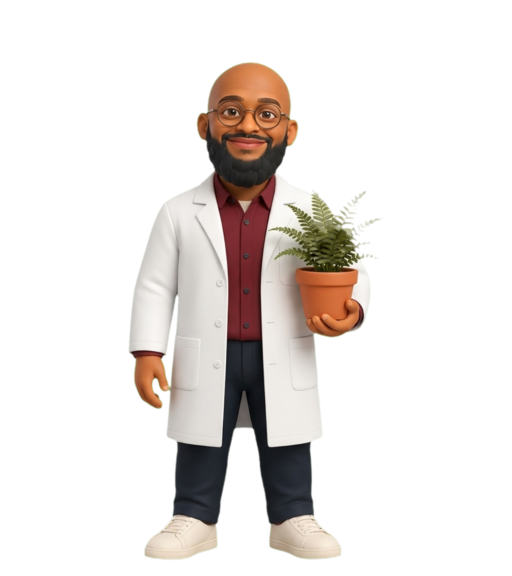
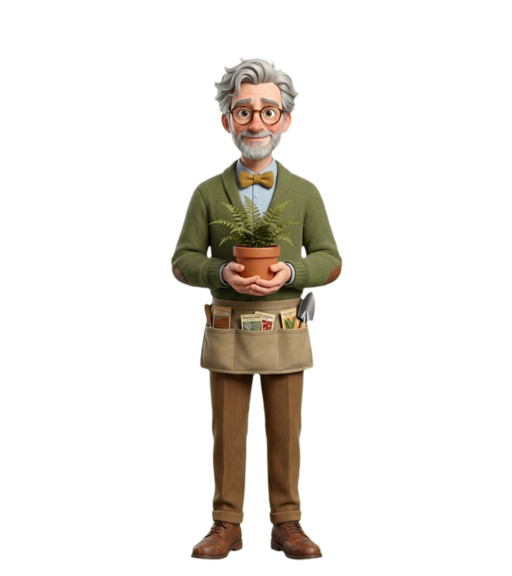
Give Wren and Elias their own looks
New figure art and matching cockpit hands, so all four characters look distinct.
Wren's starting item is now her bandana.

Changed region(s): [[0.25, 0.0938, 0.75, 1.0]]

diff --git a/story.js b/story.js
@@ -32,7 +32,7 @@ const BIOS = {
     line: 'I know these trails better than anyone. Let’s go. Now!',
     place: 'The river camp', scene: 'river', title: 'Grab your gear.',
     text: 'The river is loud tonight. Not loud enough to cover the footsteps in the trees.',
-    items: ['Trail map', 'Your hat'],
+    items: ['Trail map', 'Your bandana'],
   },
   elias: {
     teaser: 'Talks to his ferns. They talk back.',

diff --git a/story.md b/story.md
@@ -28,8 +28,8 @@ Only one way off this island. Wheels up, before they find you.
 Menu: 1 player (practice) or 2 players (invite code; the other player joins on their own phone or PC). Each player then picks their own character:
 
 - Female botanist: **Dr. Ivy Thorne** (white lab coat)
-- Female jungle explorer: **Wren "Riptide" Calloway** (khaki field gear)
-- Male botanist: **Dr. Elias Fernsby** (lab coat, carries a fern)
+- Female jungle explorer: **Wren "Riptide" Calloway** (olive vest, rust bandana, rope and machete)
+- Male botanist: **Dr. Elias Fernsby** (silver hair, green cardigan, bow tie, carries a fern)
 - Male jungle explorer: **Kip "Compass" Monroe** (safari gear, carries a frog)
 
 ## 3. Choose your path
